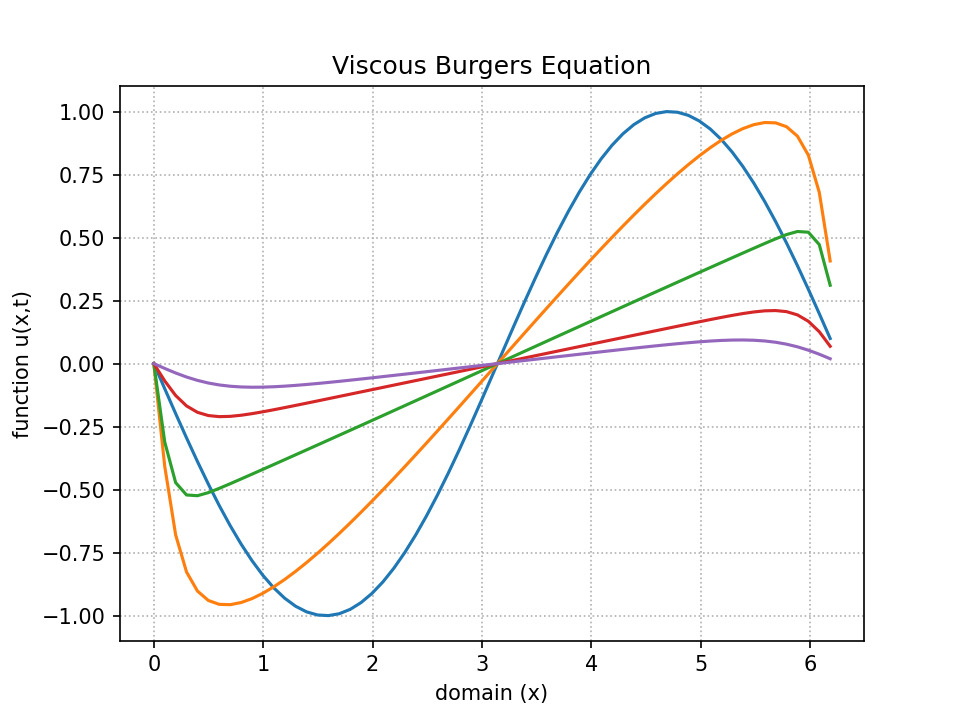
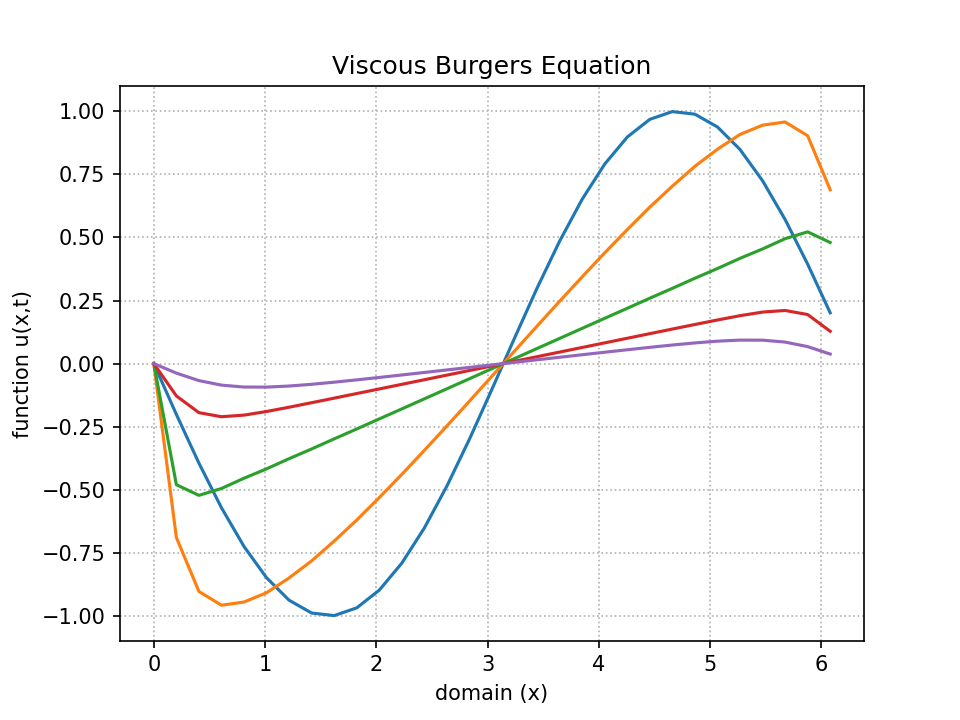
test_commit

diff --git a/spectral_methods/viscous_Burgers_equation/burgers_eq.py b/spectral_methods/viscous_Burgers_equation/burgers_eq.py
@@ -20,7 +20,7 @@ def write_real(x, u, n):
 
 
 # define the parameters
-nx = 64  # grid points / sampling points
+nx = 32  # grid points / sampling points
 a = 0  # domain a to b
 b = 2.0*np.pi  # domain a to b
 dx = (b-a)/(nx-1)  # step size
